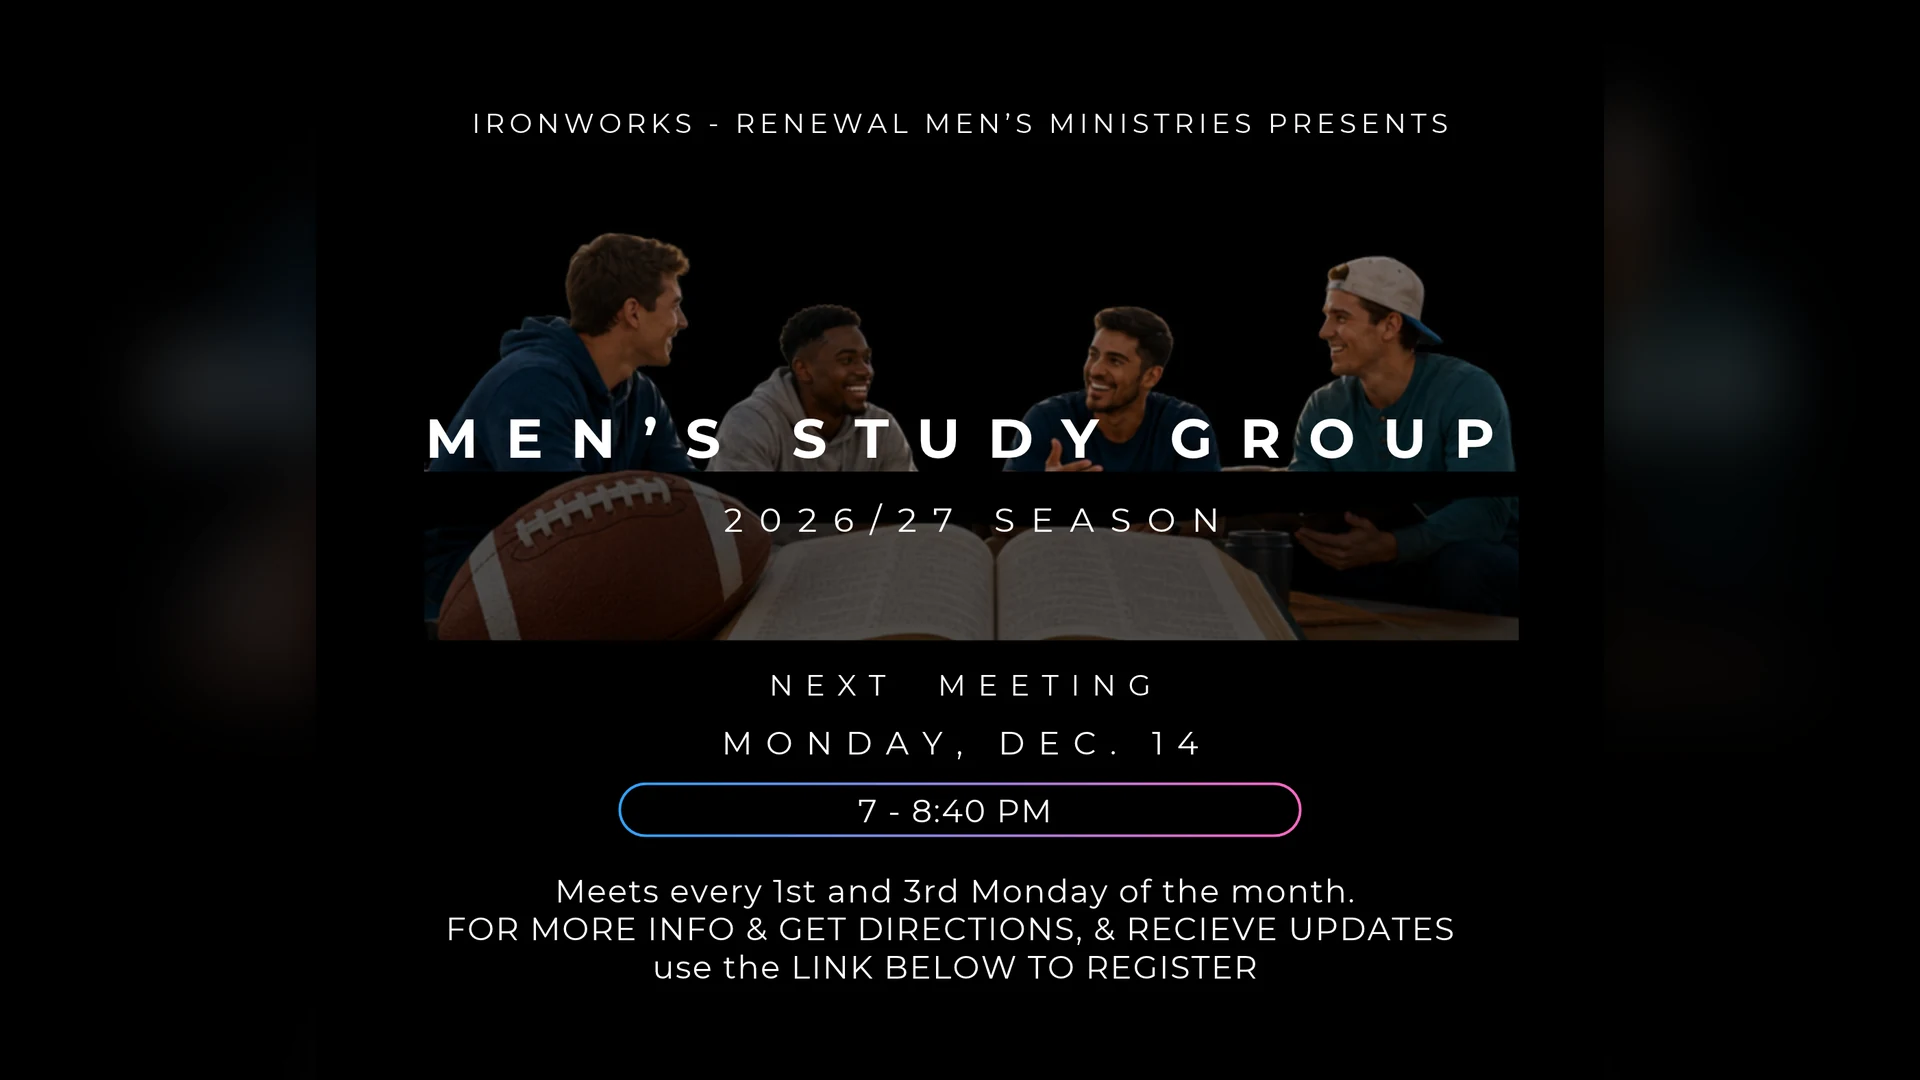
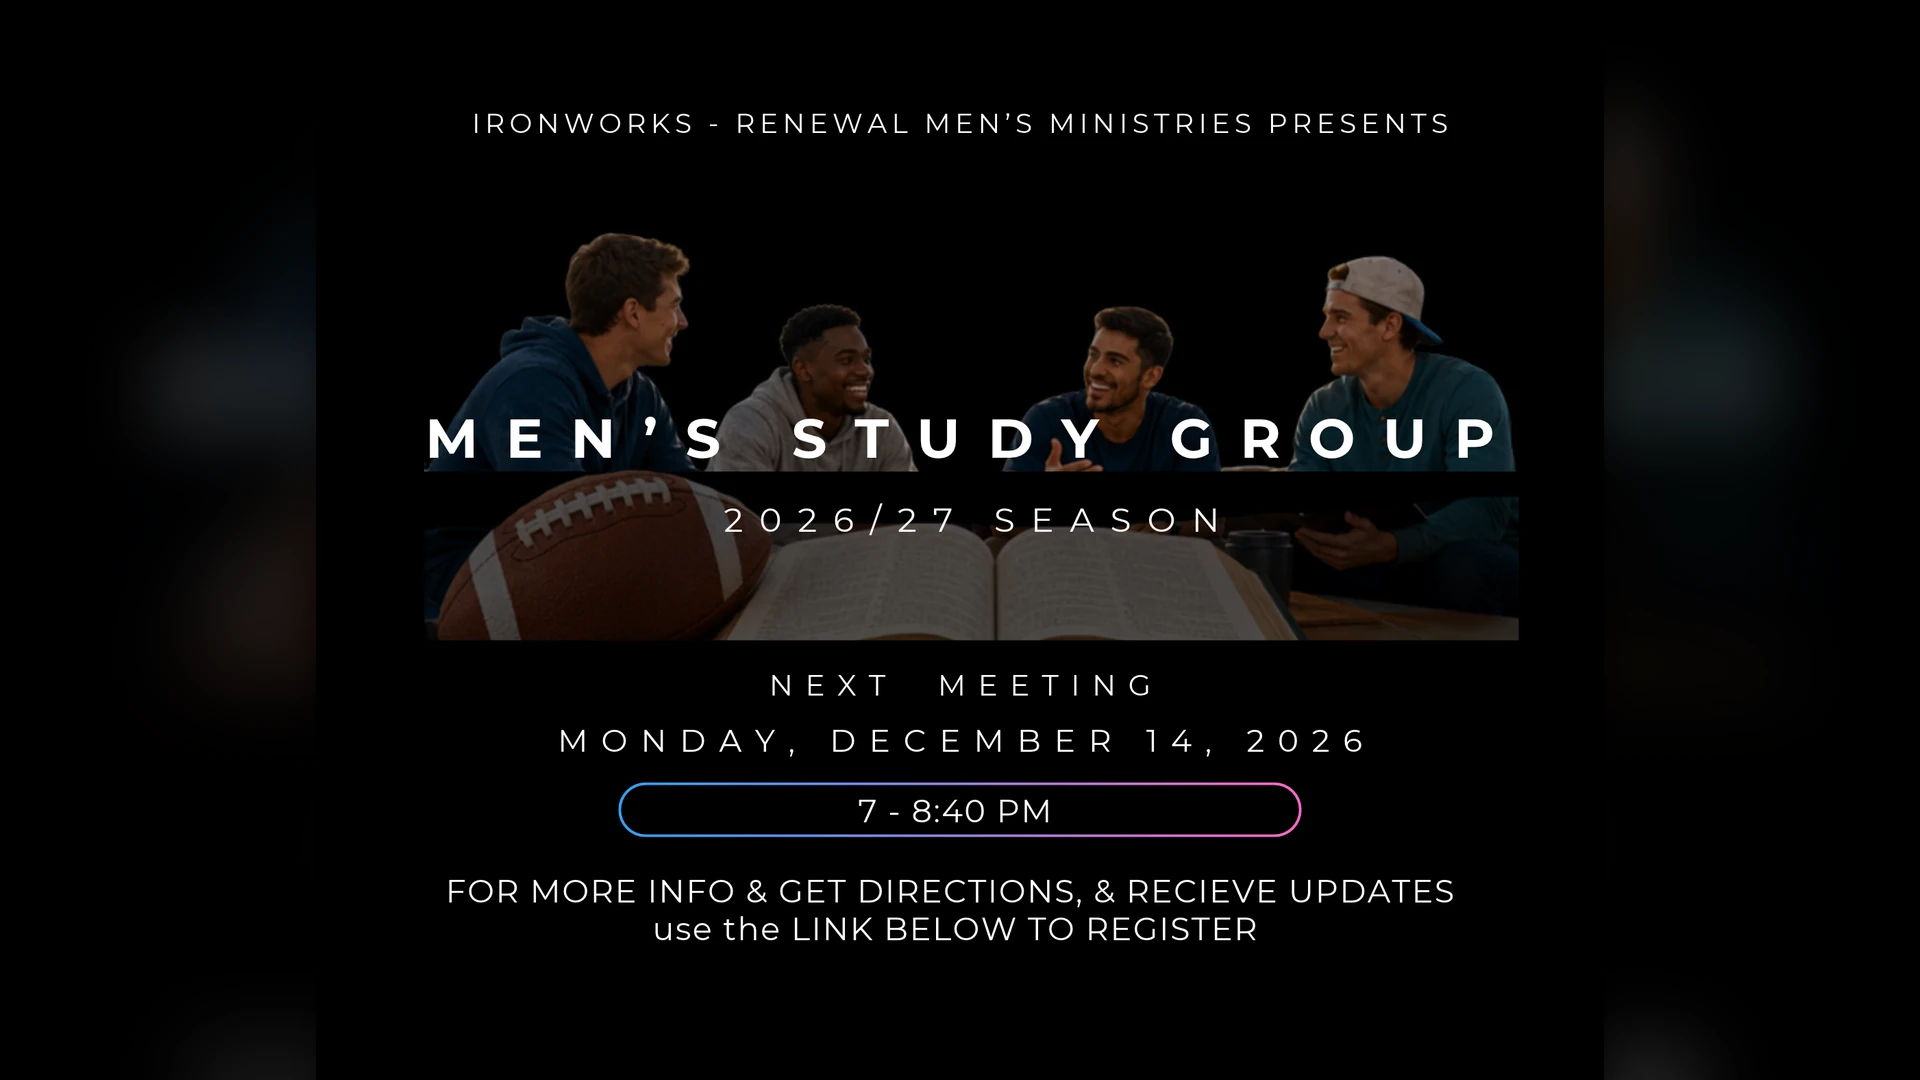
Remove church-only events and refresh Worship and Ironworks thumbnails.
Drops the Young Adults Escape Room and Christmas Social cards from the community calendar, and replaces the Worship and Ironworks images with Designer's corrected artwork (plain WORSHIP title; Monday, December 14, 2026, 7–8:40 PM).

Changed region(s): [[0.2188, 0.7944, 0.75, 0.9167], [0.2812, 0.6722, 0.625, 0.7028], [0.6562, 0.6722, 0.7188, 0.7028]]

diff --git a/index.html b/index.html
@@ -37,16 +37,6 @@ const EVENTS = [
     cta: "REGISTER TODAY"
   },
   {
-    title: "Renewal Young Adults Escape Room Experience",
-    date: "Saturday, November 28, 2026 · 6:00 PM · About 1 hour",
-    location: "RED DOOR Escape Room, 125 Boardwalk Pl, Gaithersburg, MD 20878",
-    description: "Join Renewal Young Adults for an escape room experience at RED DOOR Escape Room. The evening starts at 6:00 PM and lasts about one hour. Admission is $15 per person; Renewal Church sponsors the rest for the first 20 to sign up. Please RSVP by Friday, November 27 at noon.",
-    url: "https://docs.google.com/forms/d/e/1FAIpQLSdRmmbM9F5I1v2gifA5nxfvvIF_Td1Bopjh1Ipb5FZViI9vWQ/viewform",
-    image: "images/young-adults-escape-room.webp",
-    imageRatio: "16/9",
-    cta: "RSVP NOW"
-  },
-  {
     title: "Explore FAITH: Bible Study on Who Jesus Is Through the Book of Colossians",
     date: "Wednesdays in December · 7:05–8:15 PM · Starting Wednesday, December 2, 2026",
     location: "Online via Zoom",
@@ -73,16 +63,6 @@ const EVENTS = [
     description: "Join us for worship on Saturdays in December at 11:00 AM. Email us for more information.",
     url: "mailto:events@renewaldc.org?subject=Worship",
     image: "images/worship-saturdays-dec-2026.webp",
-    imageRatio: "16/9",
-    cta: "Email for Info"
-  },
-  {
-    title: "Christmas Social",
-    date: "Saturday, December 12, 2026 · 5:00 PM",
-    location: "Location to be announced",
-    description: "A Christmas gathering of the Renewal Church community on Saturday, December 12 at 5:00 PM. Location to be announced. Email us for more information.",
-    url: "mailto:events@renewaldc.org?subject=Christmas%20Social",
-    image: "images/christmas-social.webp",
     imageRatio: "16/9",
     cta: "Email for Info"
   },
